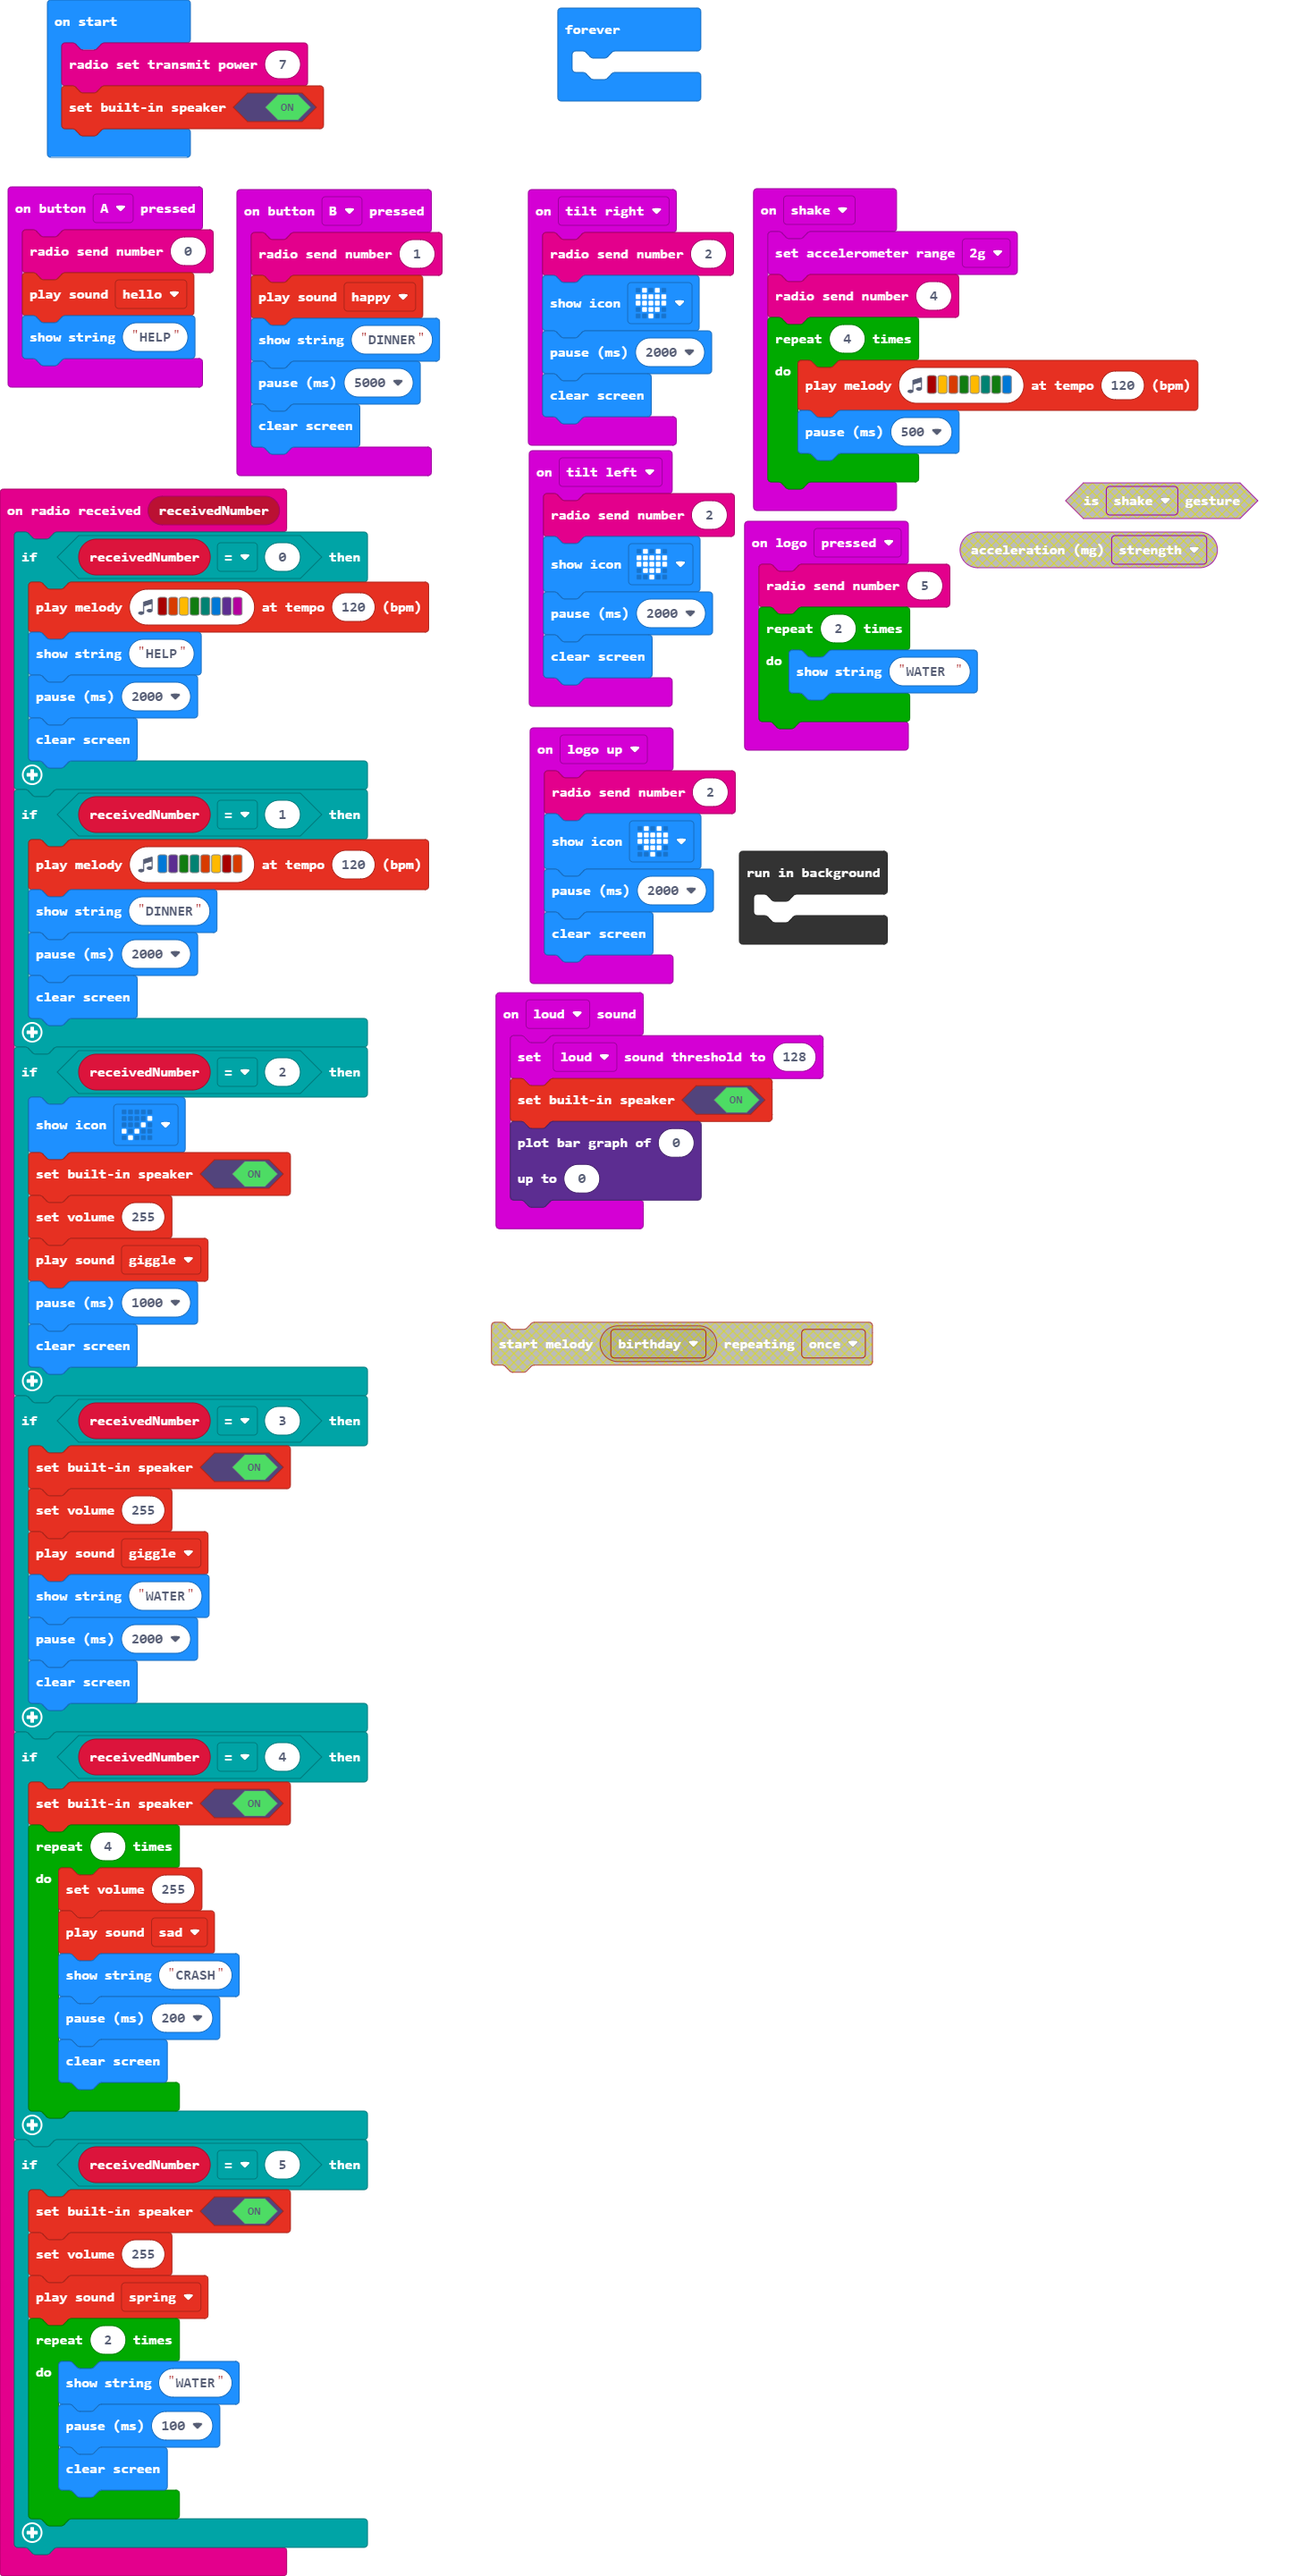
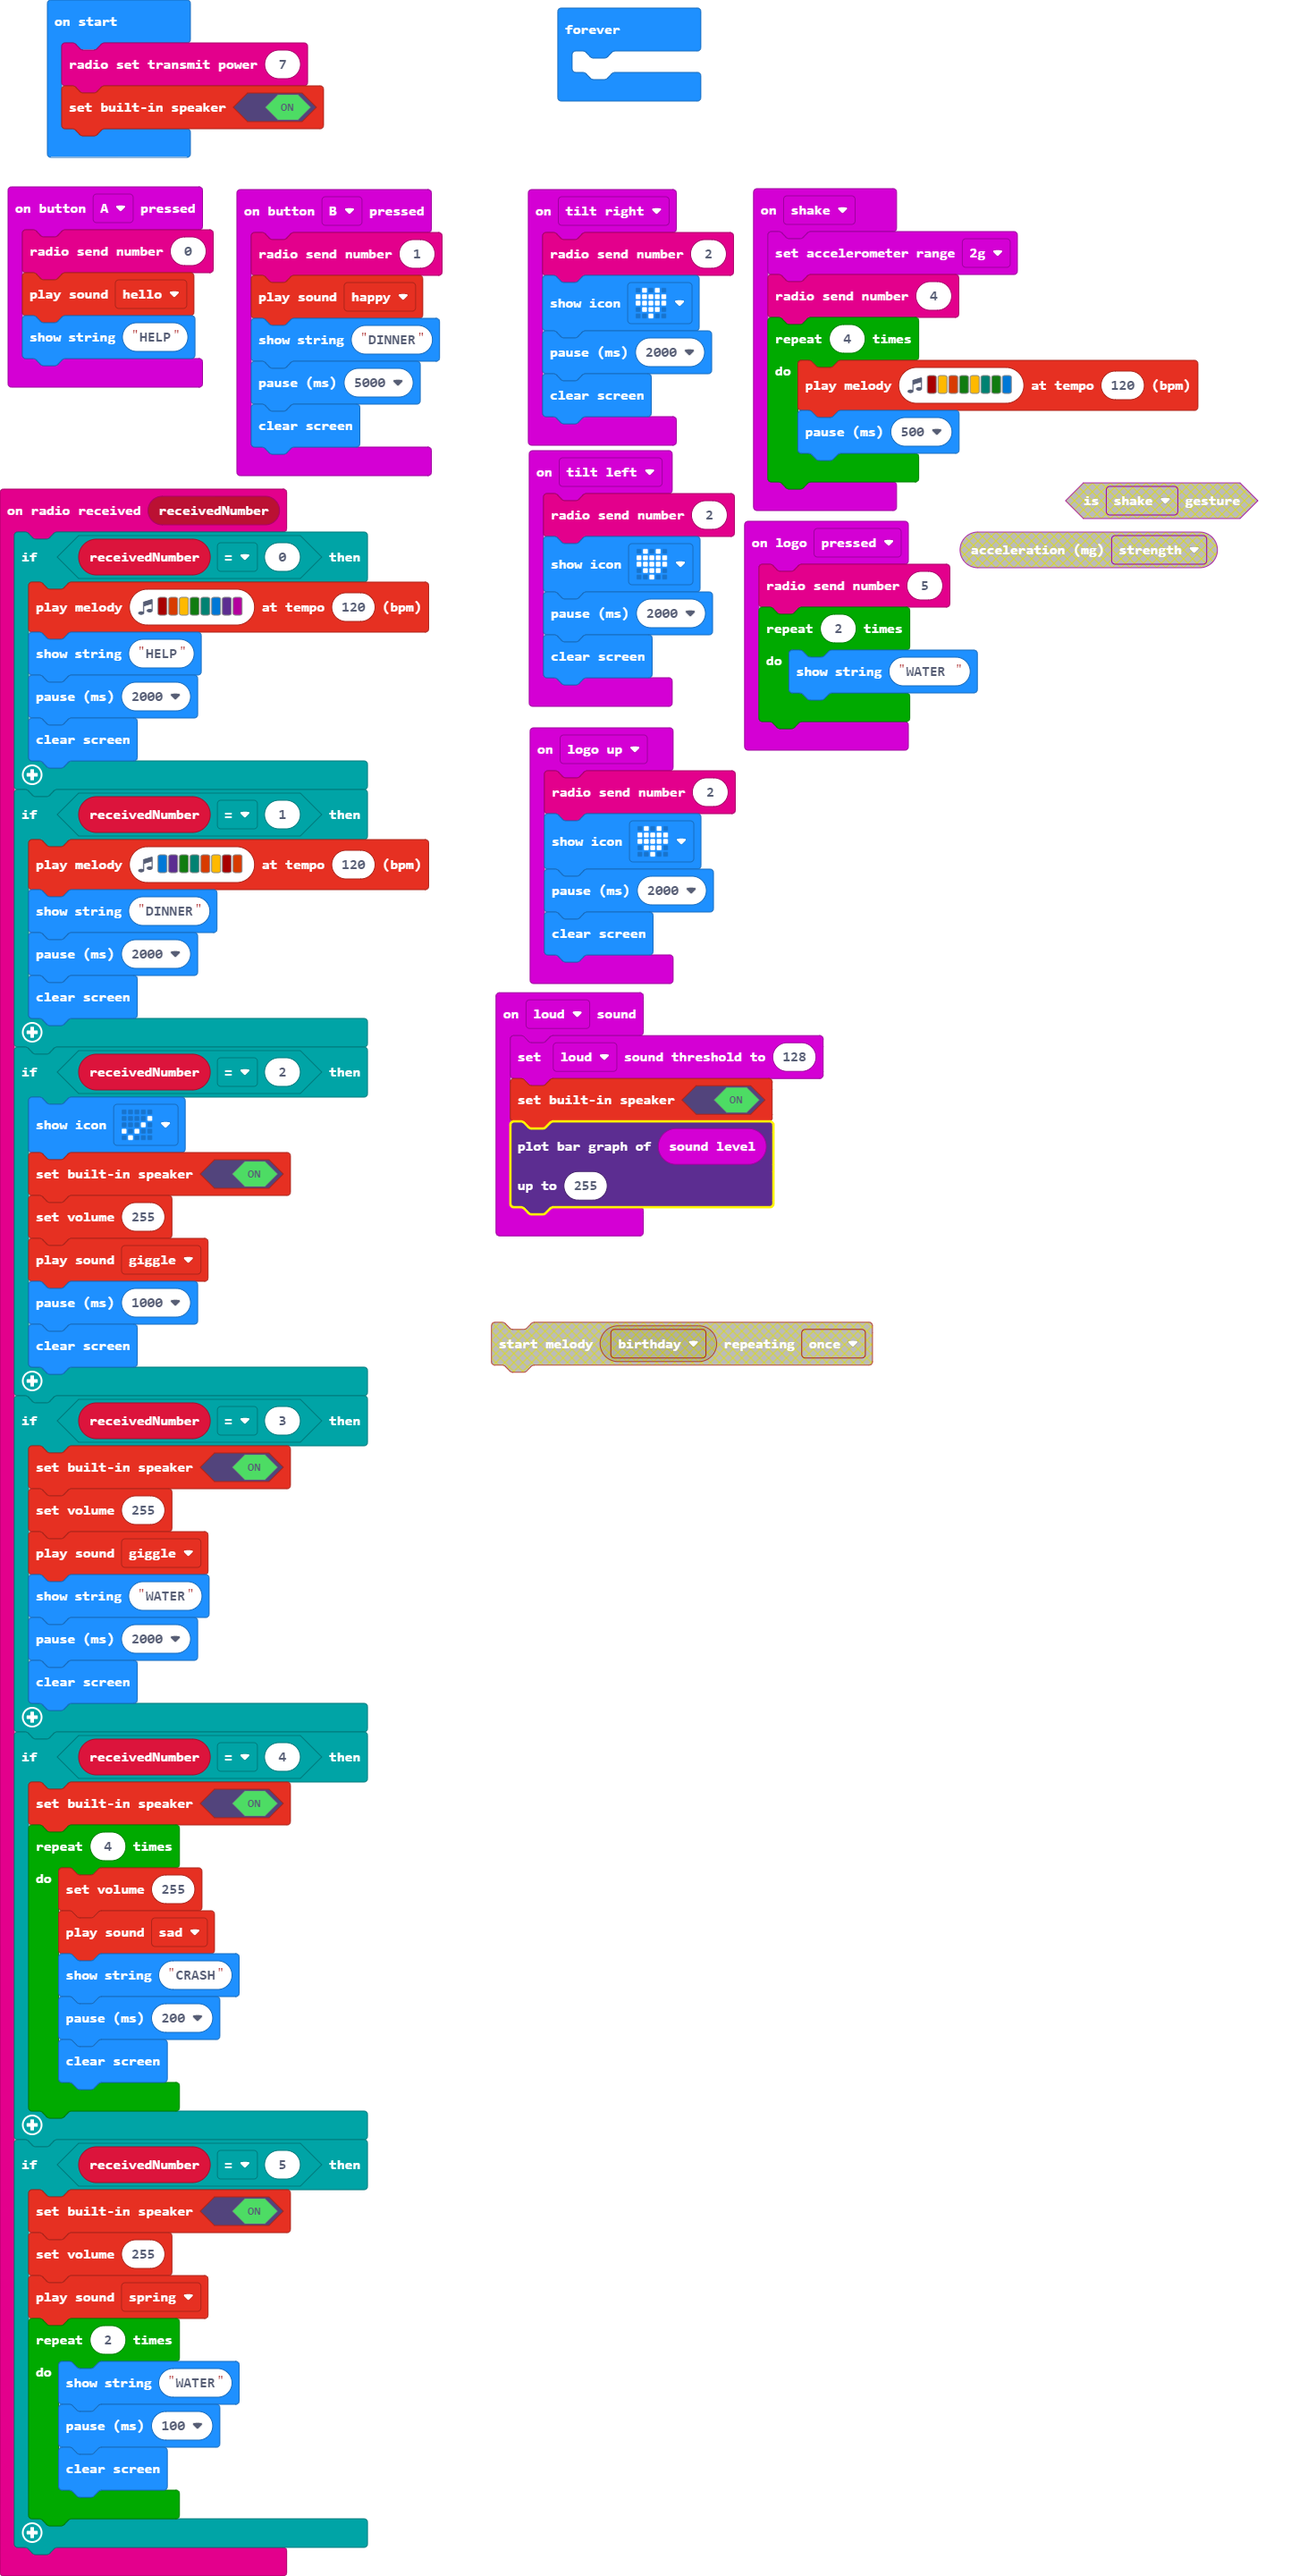
Update main.blocks, main.ts

Changed region(s): [[0.374, 0.4373, 0.6233, 0.4998], [0.5609, 0.3124, 0.6856, 0.3749]]

diff --git a/main.ts b/main.ts
@@ -69,8 +69,8 @@ input.onSound(DetectedSound.Loud, function () {
     input.setSoundThreshold(SoundThreshold.Loud, 128)
     music.setBuiltInSpeakerEnabled(true)
     led.plotBarGraph(
-    0,
-    0
+    input.soundLevel(),
+    255
     )
 })
 input.onButtonPressed(Button.B, function () {
@@ -103,8 +103,5 @@ input.onLogoEvent(TouchButtonEvent.Pressed, function () {
 radio.setTransmitPower(7)
 music.setBuiltInSpeakerEnabled(true)
 basic.forever(function () {
-	
-})
-control.inBackground(function () {
 	
 })
